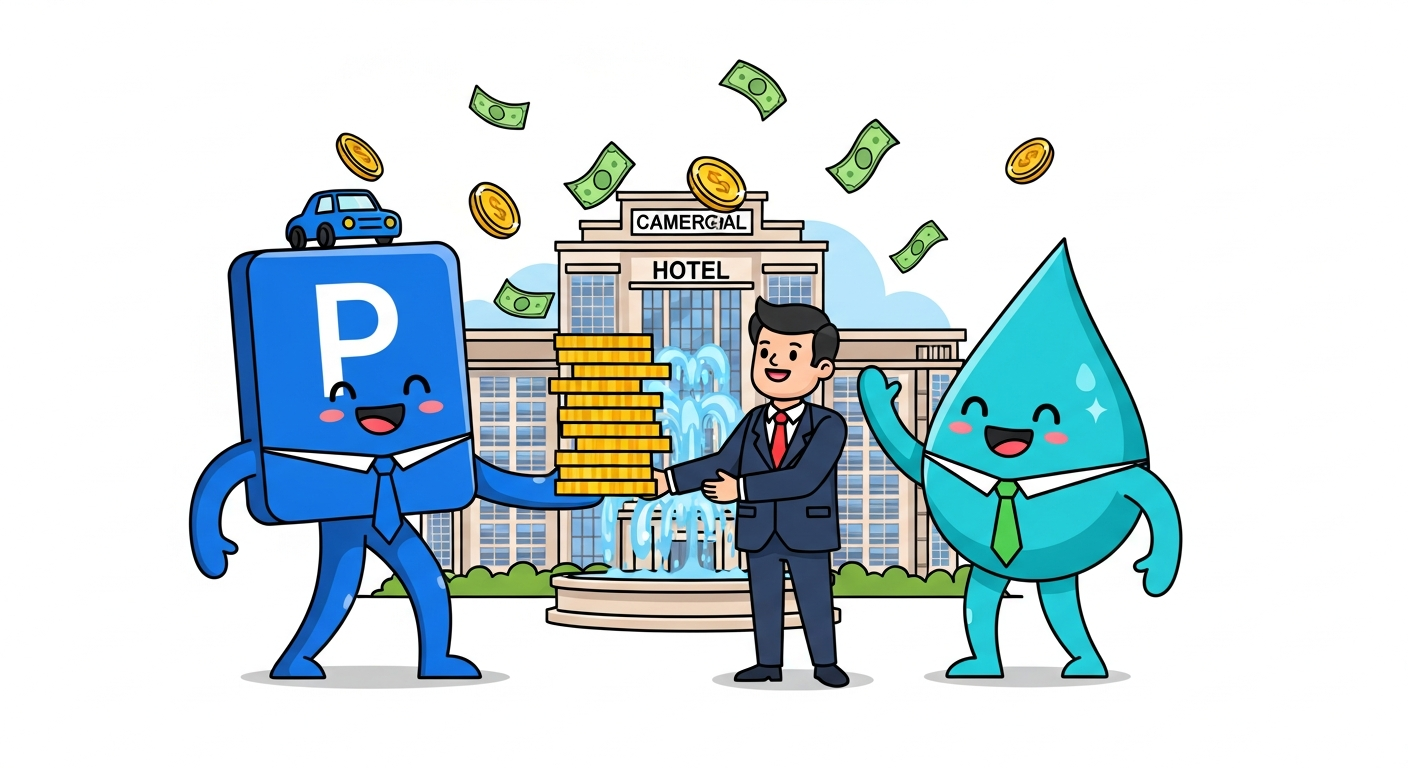
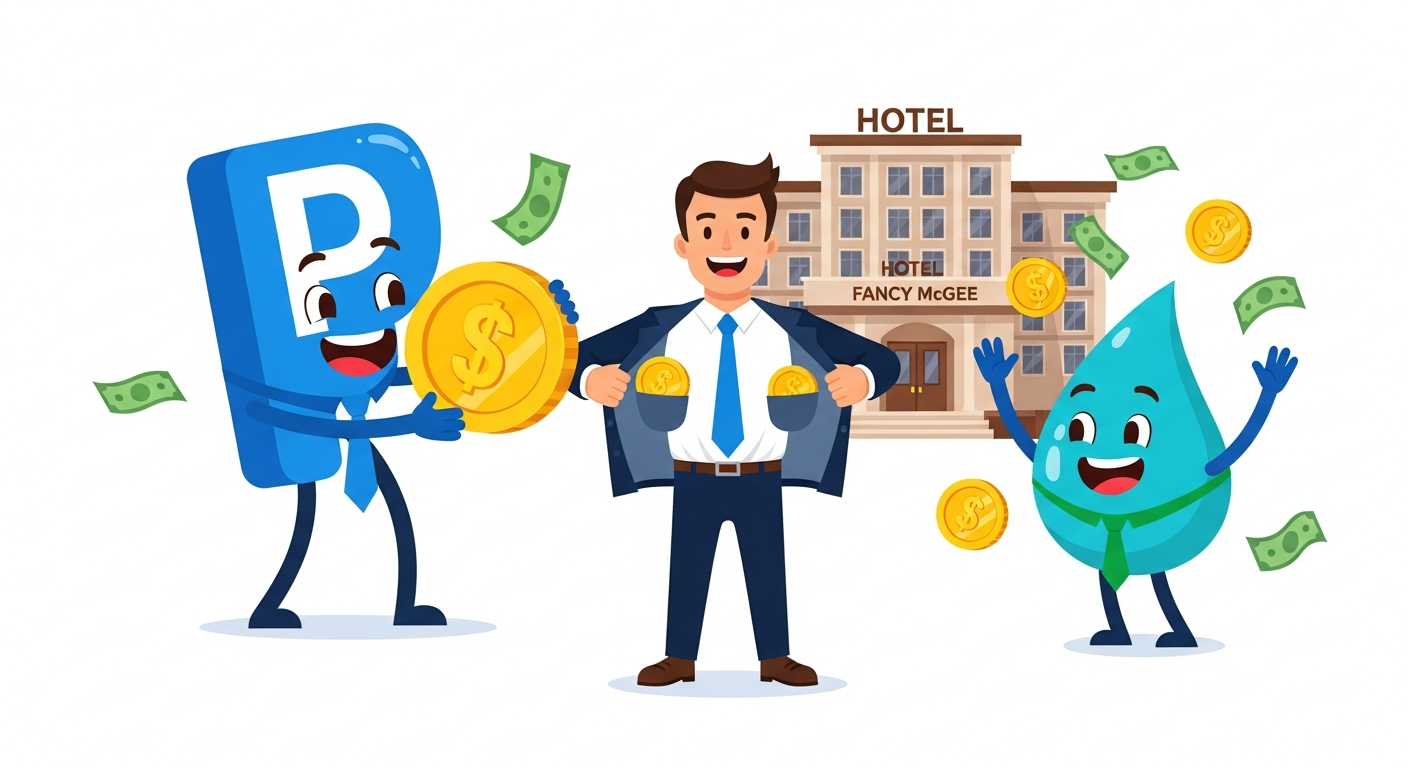
Update graphic to show hotel with silly name and funny coin gag
Force browser to load new synergy-graphic.png by adding a cache-busting timestamp to the src URL.

Replit-Commit-Author: Agent
Replit-Commit-Session-Id: bb4059b5-a511-480e-82b9-ef5fc3be4488
Replit-Commit-Checkpoint-Type: full_checkpoint
Replit-Commit-Event-Id: e83e8ce0-d12e-4cd8-906a-2faacbc6a457
Replit-Commit-Screenshot-Url: https://storage.googleapis.com/screenshot-production-us-central1/b4c64cc5-e227-43b1-931c-0e65e9d6387c/bb4059b5-a511-480e-82b9-ef5fc3be4488/isze1QH
Replit-Helium-Checkpoint-Created: true

diff --git a/artifacts/perfect-synergy/src/App.tsx b/artifacts/perfect-synergy/src/App.tsx
@@ -329,7 +329,7 @@ export default function App() {
 
         <div className="max-w-4xl mx-auto rounded-2xl overflow-hidden animate-slide-up delay-200" style={{ background: "white", border: `1px solid ${BRAND_BLUE}15`, boxShadow: "0 8px 40px rgba(3,116,167,0.10)" }}>
           <img
-            src="/synergy-graphic.png"
+            src={`/synergy-graphic.png?v=${Date.now()}`}
             alt="Perfect Parking and Perfect Water Valve mascots handing money to a happy building owner"
             className="w-full object-cover"
             style={{ maxHeight: "480px", objectPosition: "center" }}
